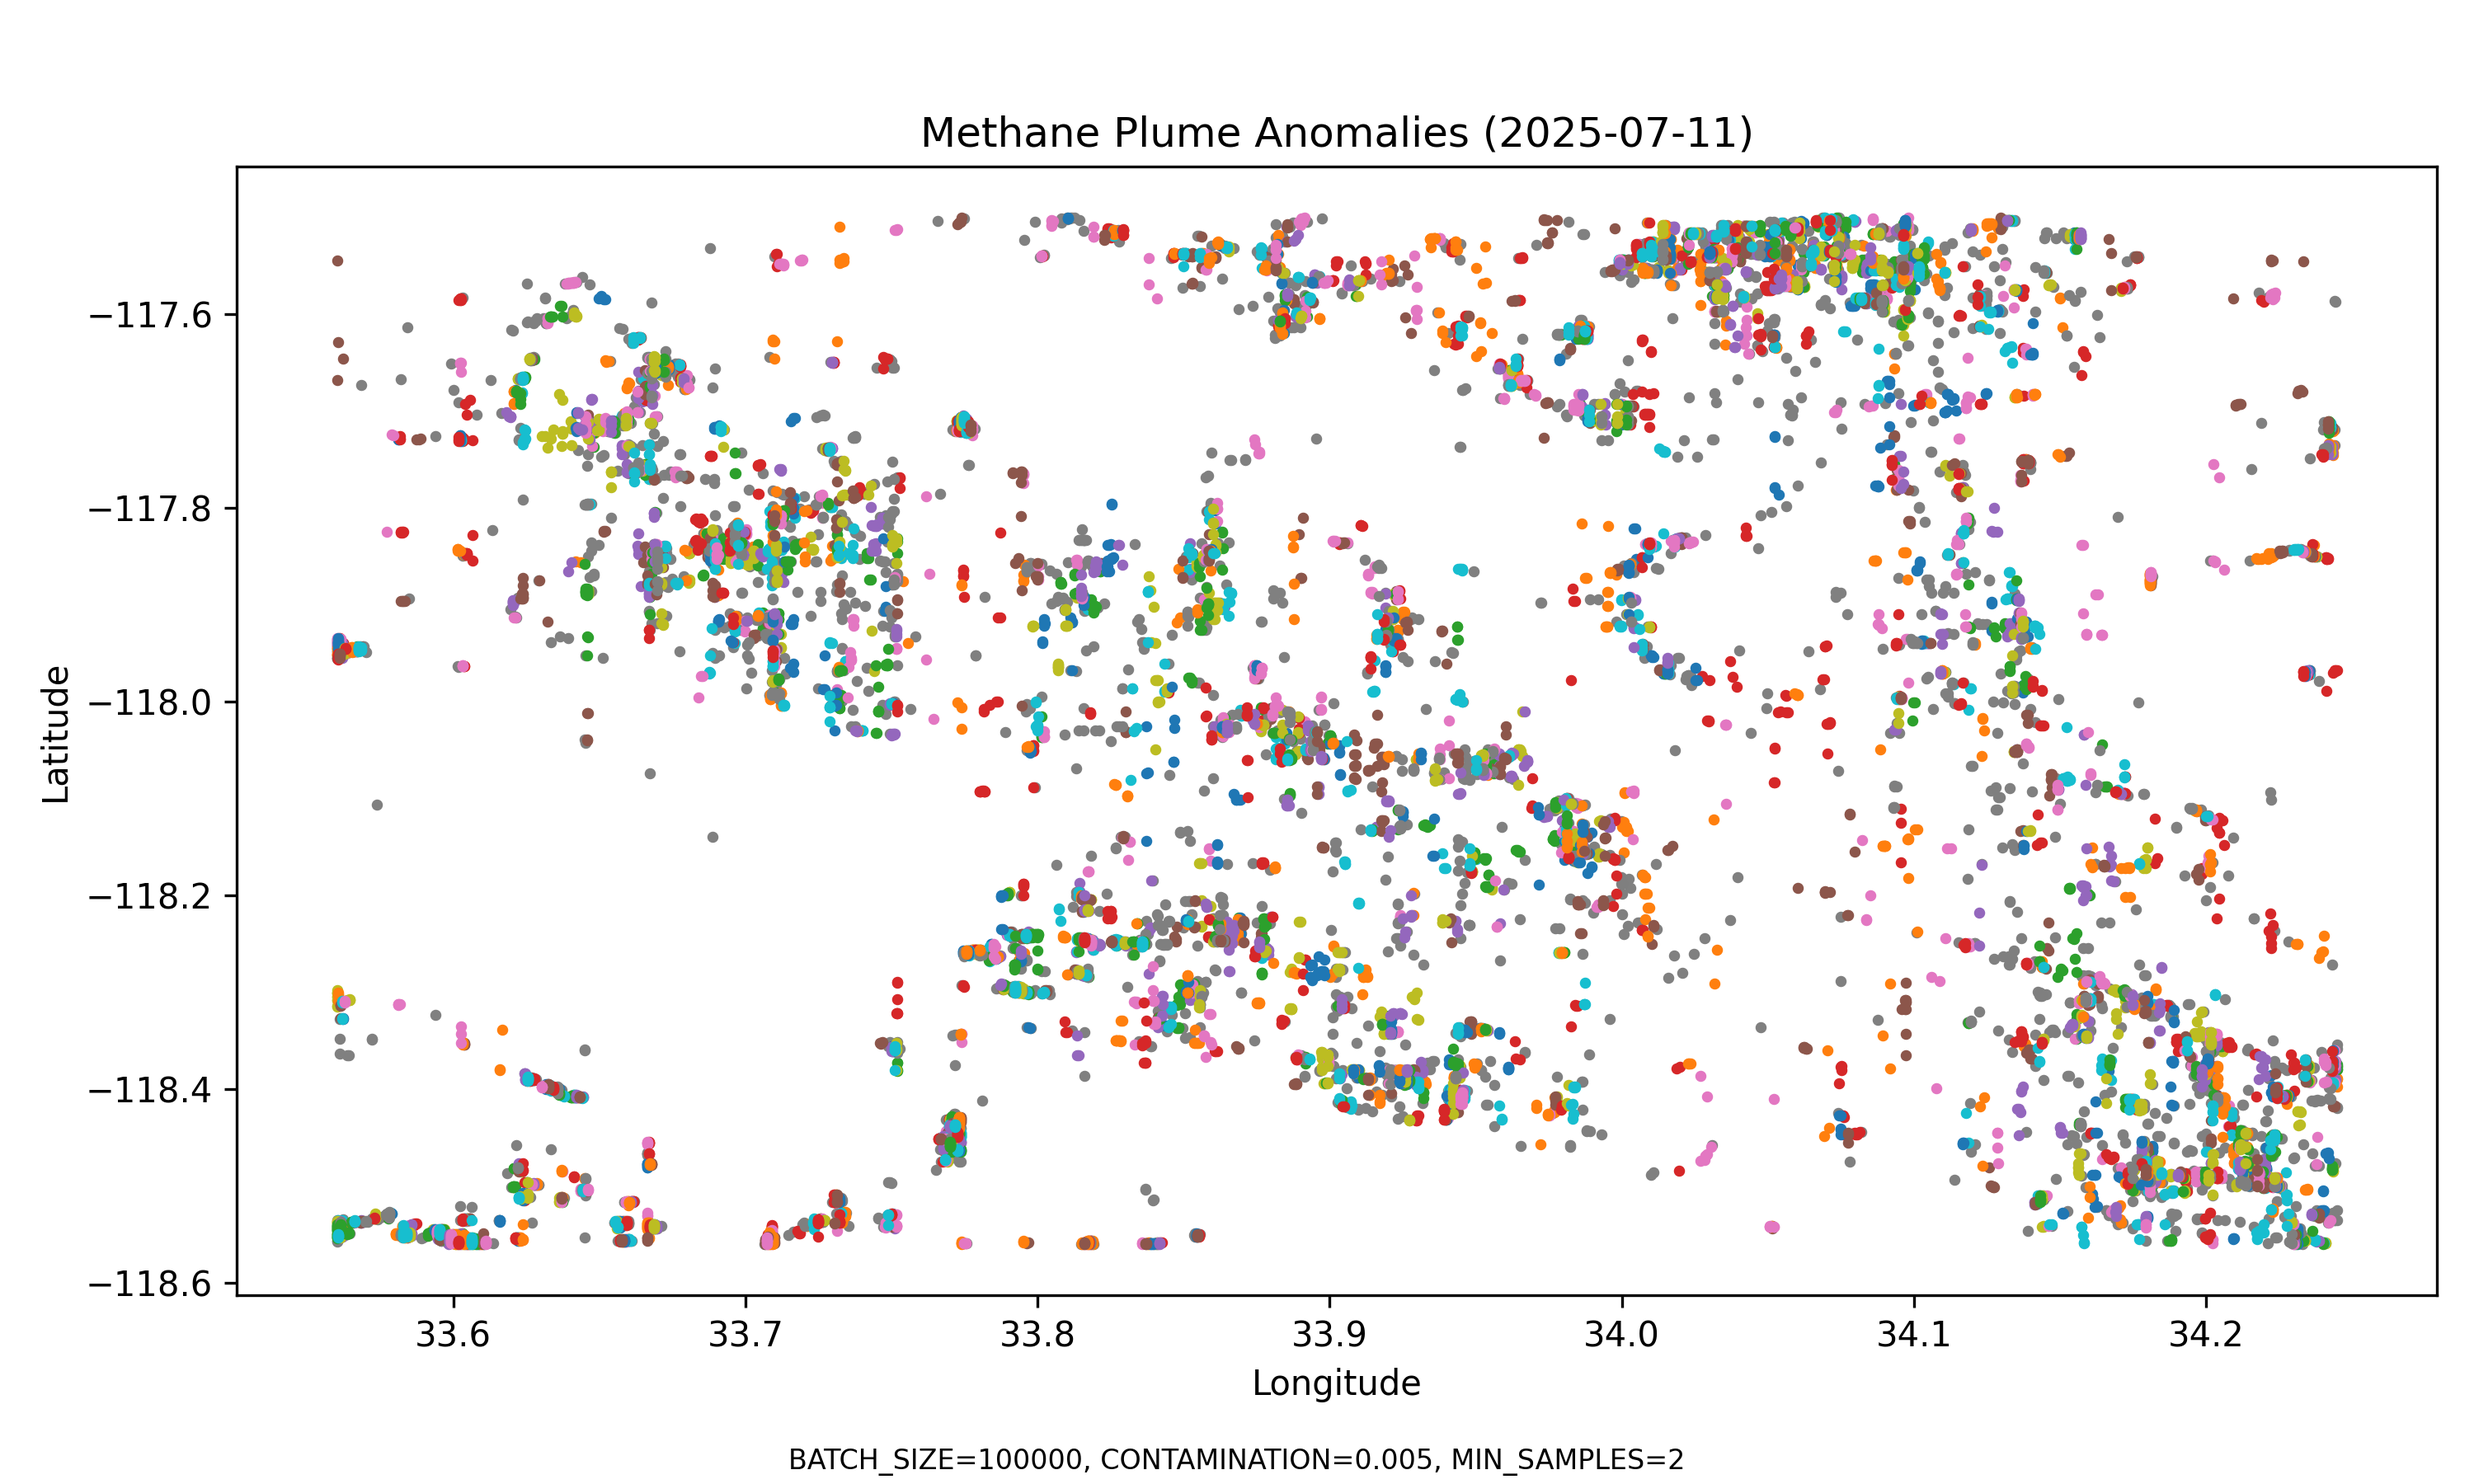
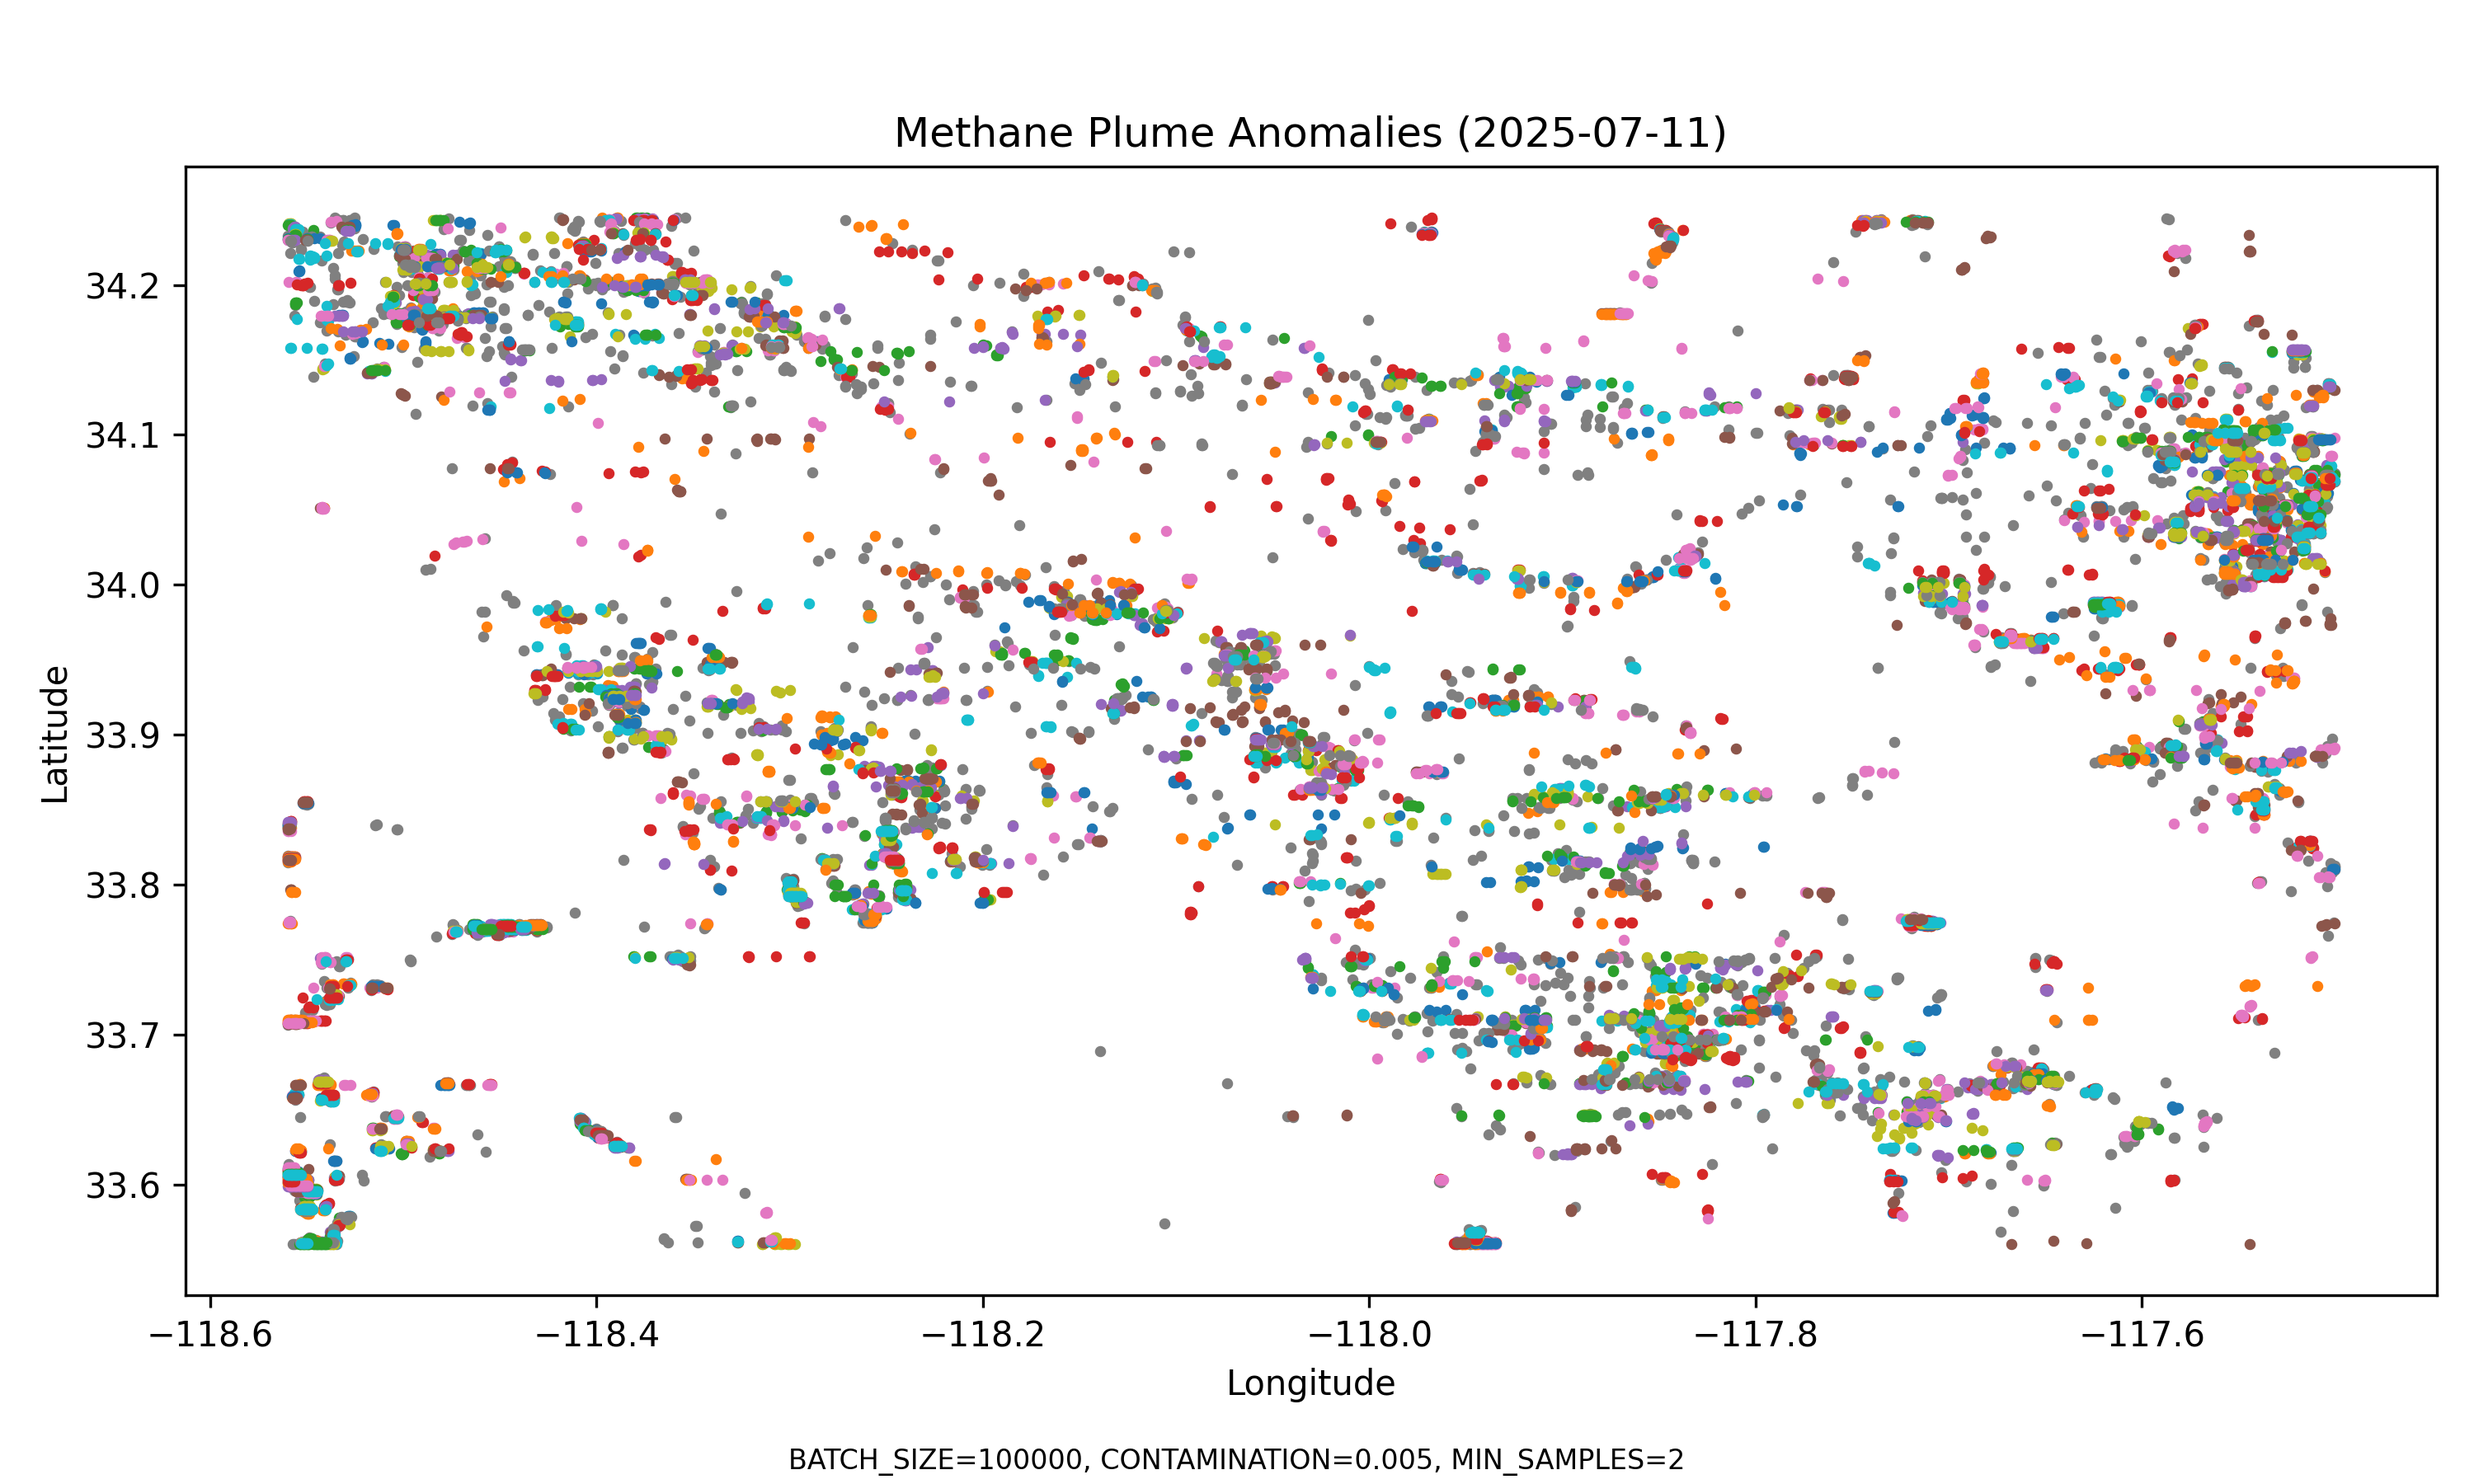
invert axis on graphs

diff --git a/scripts/main.py b/scripts/main.py
@@ -1,49 +1,15 @@
-import os
-import datetime
-import shutil
-from sentinel_download import download_sentinel_image
-from process_data import transform_red_edge_image
-from s3_uploader import upload_parquet_directory_to_s3
+# type: ignore
+
+with rasterio.open(tiff_path) as src: 
+    bands = src.read()   # Shape: (bands, height, width)
+
+coords = list(zip(np.array(xs).flatten(), np.array(ys).flatten()))
+pixels = bands.reshape(-1, bands.shape[2])
+
+df = spark.createDataFrame(data, schema=schema)
+df = df.withColumn("date", lit(date_str))
+
+df_filtered = df.filter((col("B11") > 0.01) & (col("B12") > 0.01))
+df_filtered.write.mode("overwrite").parquet(output_path)
 
 
-def get_last_month_dates():
-    today = datetime.date.today()
-    first_day_this_month = today.replace(day=1)
-    last_day_last_month = first_day_this_month - datetime.timedelta(days=1)
-    first_day_last_month = last_day_last_month.replace(day=1)
-
-    # Generate all dates from the first to last day of previous month
-    num_days = (last_day_last_month - first_day_last_month).days + 1
-    return [first_day_last_month + datetime.timedelta(days=i) for i in range(num_days)]
-
-
-def process_date(date_obj):
-    date_str = date_obj.strftime("%Y-%m-%d")
-    raw_file = f"raw_sentinel_{date_str}.tiff"
-    transformed_file = f"transformed_data_{date_str}.parquet"
-
-    print(f"\n📥 Downloading Sentinel image for {date_str}...")
-    download_sentinel_image(date_str, raw_file)
-
-    print(f"⚙  Processing image and saving to {transformed_file}...")
-    transform_red_edge_image(raw_file, transformed_file)
-
-    print(f"☁ Uploading to S3...")
-    bucket_name = "ndvi-daily-data"
-    local_base_dir = os.path.dirname(__file__)
-    upload_parquet_directory_to_s3(date_str, local_base_dir, transformed_file, bucket_name)
-
-    print(f"✅ Done for {date_str}!")
-
-
-def main():
-    dates = get_last_month_dates()
-    for date_obj in dates:
-        try:
-            process_date(date_obj)
-        except Exception as e:
-            print(f"❌ Failed for {date_obj.strftime('%Y-%m-%d')}: {e}")
-
-
-if __name__ == "__main__":
-    main()

diff --git a/scripts/process_data.py b/scripts/process_data.py
@@ -13,7 +13,6 @@ def extract_geospatial_data(tiff_path):
     print(f"📂 Opening TIFF file: {tiff_path}")
     with rasterio.open(tiff_path) as src:
         bands = src.read()  # Shape: (bands, height, width)
-        print(f"ℹ Image shape (bands, height, width): {bands.shape}")
         bands = np.transpose(bands, (1, 2, 0))  # (height, width, bands)
         height, width, _ = bands.shape
 
@@ -48,8 +47,6 @@ def create_spark_df(data, date_str):
     df = spark.createDataFrame(data, schema=schema)
     # Add date column
     df = df.withColumn("date", lit(date_str).cast(StringType()))
-    print("✅ Spark DataFrame created with coordinates + date.")
-    #df.show(5)
     return df
 
 def transform_red_edge_image(tiff_path, output_path):

diff --git a/scripts/model.py b/scripts/model.py
@@ -113,10 +113,10 @@ def plot_anomalies(all_data_df, anomalies, date_str):
     for i, cluster in enumerate(clusters):
         cluster_points = anomalies[anomalies['plume_cluster'] == cluster]
         if cluster == -1:
-            plt.scatter(cluster_points['longitude'], cluster_points['latitude'], 
+            plt.scatter(cluster_points['latitude'], cluster_points['longitude'], 
                         s=5, color='grey', label='Noise')
         else:
-            plt.scatter(cluster_points['longitude'], cluster_points['latitude'], 
+            plt.scatter(cluster_points['latitude'], cluster_points['longitude'], 
                         s=5, color=colors[i], label=f'Plume {cluster}')
 
     plt.xlabel('Longitude')
